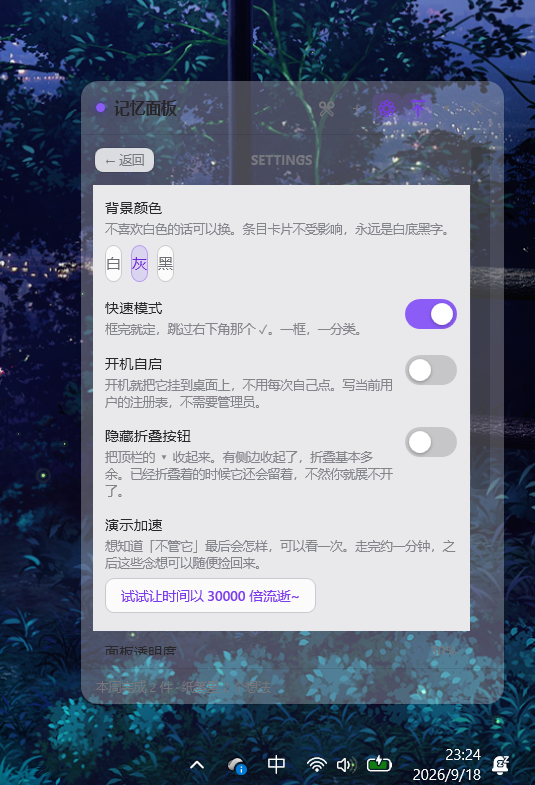
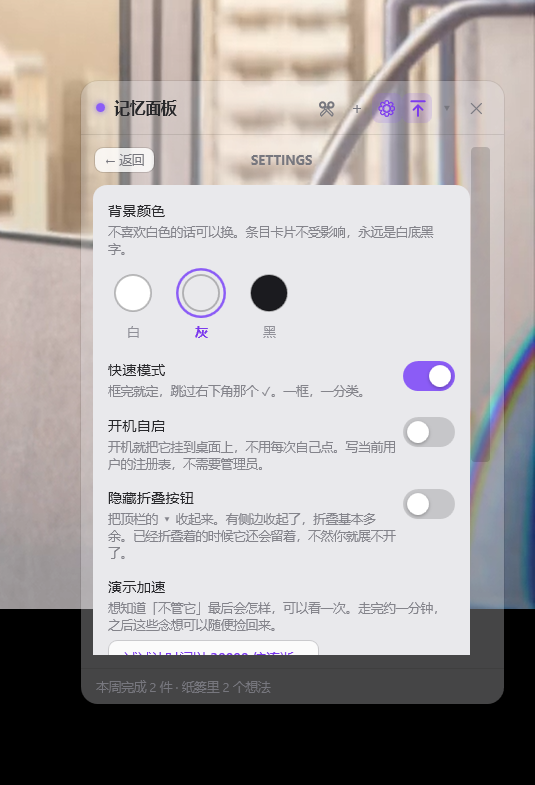
三处审美修改；顺手补上一个藏了很久的数据层对齐缺口
1. **背景颜色改成真色块**：原来是三个写着「白/灰/黑」的按钮 —— 选颜色却要读字。
   改成三个圆，直接显示那个主题的面板底色，选中的套紫圈、名字也变紫。
   顺带修了只有黑色主题才暴露的问题：**「黑」色块和它所在的深色背景同色，
   整个看不见**（只剩一个紫圈）。加了专门的描边资源 SwatchRing，
   三套主题各给足对比。

2. **设置页加圆角**：那块不透明底原来是直角。改成上面 11,11,0,0、
   下面 0,0,11,11 —— 中间「面板透明度」那行本来就透明，两块合起来还是一个大圆角。

3. **归类窗中间选项回归统一排版**：原来中间是三层（两三天 / 点了随机 48~72 小时 /
   [__] 天输入框），两侧只有两层，一眼就看得出不一样。改成：

       [ Today ]      [ Soon ]       [ Wantdo ]
         一天内      两三天 or block      无期限

   天数输入框挪到底部提示行右边（原来是「留空则用窗口标题」，那句本来就多余）。

4. **数据层对齐缺口（顺带发现）**：verify-snapshot 报了 items[21].overdue: JS=null CS=false。
   查下来是 store.js 那句的**短路行为**：

       overdue: it.room === 'todo' && isActive && it.dueAt && it.dueAt < now

   当 dueAt 是 null（手动记一笔、没有 DDL）时，整个表达式的值是 dueAt 本身（null），
   不是 false。我这边写的是严格布尔 dueAt is double && ...，输出 false。

   功能上等价（两边 UI 都当布尔用），但破坏了「逐字段可对比」这条不变量。
   以前没暴露是因为测试数据里每条 todo 都有 dueAt，这次 --flow=add 造了一条
   手动条目才撞上。按原样对齐（并写了注释说明这是刻意保留的怪癖，
   免得以后被人"顺手修好"又打破对齐）。

回归：22 条目 × 全部衰减字段逐字段完全一致 · legacy 单测 26 项全过 · 包 119.1 KB

diff --git a/native/src/PanelWindow.xaml b/native/src/PanelWindow.xaml
@@ -936,16 +936,18 @@
                                        HorizontalAlignment="Center" VerticalAlignment="Center"/>
                         </Grid>
 
-                        <Border Background="{DynamicResource SurfaceBg}" Padding="10,10,10,2">
+                        <Border Background="{DynamicResource SurfaceBg}" Padding="12,12,12,2"
+                                CornerRadius="11,11,0,0" Margin="0,0,0,0">
                         <StackPanel>
 
                         <!-- ==== 背景颜色 ==== -->
-                        <StackPanel Margin="0,0,0,12">
+                        <StackPanel Margin="0,0,0,14">
                             <TextBlock Text="背景颜色" FontSize="11.5" FontWeight="Medium"
                                        Foreground="{DynamicResource Tx2}"/>
                             <TextBlock Text="不喜欢白色的话可以换。条目卡片不受影响，永远是白底黑字。" FontSize="10"
-                                       Foreground="{DynamicResource HintTx}" Margin="0,4,0,6"
+                                       Foreground="{DynamicResource HintTx}" Margin="0,4,0,9"
                                        TextWrapping="Wrap" MaxWidth="300" HorizontalAlignment="Left"/>
+                            <!-- 直接给色块，比三个写着「白/灰/黑」的按钮直观得多 -->
                             <ItemsControl ItemsSource="{Binding ThemeOptions}">
                                 <ItemsControl.ItemsPanel>
                                     <ItemsPanelTemplate>
@@ -954,18 +956,34 @@
                                 </ItemsControl.ItemsPanel>
                                 <ItemsControl.ItemTemplate>
                                     <DataTemplate>
-                                        <Button Content="{Binding Name}" Command="{Binding PickCmd}"
-                                                CommandParameter="{Binding Key}" Margin="0,0,7,0">
-                                            <Button.Style>
-                                                <Style TargetType="Button" BasedOn="{StaticResource RoomBtn}">
-                                                    <Style.Triggers>
-                                                        <DataTrigger Binding="{Binding On}" Value="True">
-                                                            <Setter Property="Tag" Value="on"/>
-                                                        </DataTrigger>
-                                                    </Style.Triggers>
-                                                </Style>
-                                            </Button.Style>
-                                        </Button>
+                                        <StackPanel Margin="0,0,14,0" Cursor="Hand"
+                                                    MouseLeftButtonUp="OnThemeSwatchClick"
+                                                    ToolTip="{Binding Name}">
+                                            <Grid Width="40" Height="40">
+                                                <!-- 选中圈：外面一圈紫色；没选中时是透明的 -->
+                                                <Ellipse Width="40" Height="40" StrokeThickness="2"
+                                                         Stroke="{DynamicResource Accent}"
+                                                         Visibility="{Binding On, Converter={StaticResource BoolToVis}}"/>
+                                                <!-- 描边必须跟着主题走：不然黑色主题下
+                                                     「黑」色块和底色一样，整个看不见 -->
+                                                <Ellipse Width="30" Height="30" Fill="{Binding Swatch}"
+                                                         Stroke="{DynamicResource SwatchRing}" StrokeThickness="1.5"/>
+                                            </Grid>
+                                            <TextBlock Text="{Binding Name}" FontSize="10" Margin="0,5,0,0"
+                                                       HorizontalAlignment="Center">
+                                                <TextBlock.Style>
+                                                    <Style TargetType="TextBlock">
+                                                        <Setter Property="Foreground" Value="{DynamicResource Tx5}"/>
+                                                        <Style.Triggers>
+                                                            <DataTrigger Binding="{Binding On}" Value="True">
+                                                                <Setter Property="Foreground" Value="{DynamicResource AccentDeep}"/>
+                                                                <Setter Property="FontWeight" Value="SemiBold"/>
+                                                            </DataTrigger>
+                                                        </Style.Triggers>
+                                                    </Style>
+                                                </TextBlock.Style>
+                                            </TextBlock>
+                                        </StackPanel>
                                     </DataTemplate>
                                 </ItemsControl.ItemTemplate>
                             </ItemsControl>
@@ -1036,7 +1054,7 @@
                             这一行**故意不加不透明底** —— 用户拖这个滑块的时候，
                             要能直接看到面板当前有多透。
                         -->
-                        <StackPanel Margin="10,8,10,10">
+                        <StackPanel Margin="12,8,12,10">
                             <Grid Margin="0,0,0,5">
                                 <TextBlock Text="面板透明度" FontSize="11.5" FontWeight="Medium"
                                            Foreground="{DynamicResource Tx2}"/>
@@ -1049,7 +1067,8 @@
                                     ValueChanged="OnOpacityChanged"/>
                         </StackPanel>
 
-                        <Border Background="{DynamicResource SurfaceBg}" Padding="10,2,10,10">
+                        <Border Background="{DynamicResource SurfaceBg}" Padding="12,2,12,12"
+                                CornerRadius="0,0,11,11">
                         <StackPanel>
                         <StackPanel Margin="0,0,0,10">
                             <Grid Margin="0,0,0,5">

diff --git a/native/src/ChooserWindow.xaml b/native/src/ChooserWindow.xaml
@@ -110,23 +110,15 @@
                             <GradientStop Color="#2563eb" Offset="1"/>
                         </LinearGradientBrush>
                     </Button.Background>
+                    <!--
+                        和两侧保持同一套排版：大字 + 一行小字。
+                        天数输入框挪到底部提示行去了 —— 塞在按钮里会让中间这个
+                        长得和两边不一样，一眼就看出来。
+                    -->
                     <StackPanel>
-                        <TextBlock Text="两三天" FontSize="12.5" FontWeight="Bold" HorizontalAlignment="Center"/>
-                        <TextBlock Text="点了随机 48~72 小时" FontSize="8.5" Opacity="0.82"
+                        <TextBlock Text="Soon" FontSize="12.5" FontWeight="Bold" HorizontalAlignment="Center"/>
+                        <TextBlock Text="两三天 or block" FontSize="9" Opacity="0.82"
                                    HorizontalAlignment="Center"/>
-                        <!-- 想自己定期限就写个天数；留空就是上面那个随机的 -->
-                        <Border Background="#33ffffff" CornerRadius="6" Margin="0,5,0,0"
-                                HorizontalAlignment="Center" Padding="6,0,6,0">
-                            <StackPanel Orientation="Horizontal">
-                                <TextBox x:Name="DaysBox" Width="26" FontSize="11" FontWeight="SemiBold"
-                                         Background="Transparent" BorderThickness="0" Foreground="#ffffff"
-                                         CaretBrush="#ffffff" TextAlignment="Center"
-                                         VerticalContentAlignment="Center"
-                                         KeyDown="OnDaysKeyDown" PreviewTextInput="OnDaysInput"
-                                         ToolTip="写天数，比如 5；留空就随机"/>
-                                <TextBlock Text="天" FontSize="9.5" Opacity="0.85" VerticalAlignment="Center"/>
-                            </StackPanel>
-                        </Border>
                     </StackPanel>
                 </Button>
 
@@ -148,8 +140,21 @@
                 <TextBlock FontSize="9.5" Foreground="#b0b0b6" VerticalAlignment="Center">
                     <Run Text="Esc 算了 · 1 2 3 直接选"/>
                 </TextBlock>
-                <TextBlock Text="留空则用窗口标题" FontSize="9.5" Foreground="#b0b0b6"
-                           HorizontalAlignment="Right" VerticalAlignment="Center"/>
+                <StackPanel Orientation="Horizontal" HorizontalAlignment="Right" VerticalAlignment="Center">
+                    <TextBlock Text="想指定天数就写" FontSize="9.5" Foreground="#b0b0b6"
+                               VerticalAlignment="Center" Margin="0,0,5,0"/>
+                    <Border Background="#0f000000" CornerRadius="5" Padding="5,0,5,1">
+                        <StackPanel Orientation="Horizontal">
+                            <TextBox x:Name="DaysBox" Width="24" FontSize="10" FontWeight="SemiBold"
+                                     Background="Transparent" BorderThickness="0"
+                                     Foreground="#3a3a3c" CaretBrush="#3a3a3c" TextAlignment="Center"
+                                     VerticalContentAlignment="Center"
+                                     KeyDown="OnDaysKeyDown" PreviewTextInput="OnDaysInput"
+                                     ToolTip="留空就随机 48~72 小时"/>
+                            <TextBlock Text="天" FontSize="9.5" Foreground="#8a8a8e" VerticalAlignment="Center"/>
+                        </StackPanel>
+                    </Border>
+                </StackPanel>
             </Grid>
         </Grid>
     </Border>

diff --git a/native/src/Theme.xaml b/native/src/Theme.xaml
@@ -45,6 +45,8 @@
     <SolidColorBrush x:Key="EmptyBg" Color="#80ffffff"/>
     <SolidColorBrush x:Key="EmptyBorder" Color="#1f000000"/>
     <SolidColorBrush x:Key="HoverBg" Color="#14000000"/>
+    <!-- 色块描边：黑色主题下「黑」色块和底色一样，描边不给足就整个看不见 -->
+    <SolidColorBrush x:Key="SwatchRing" Color="#33000000"/>
     <SolidColorBrush x:Key="Accent" Color="#8b5cf6"/>
     <SolidColorBrush x:Key="AccentDeep" Color="#7c3aed"/>
     <SolidColorBrush x:Key="Green" Color="#10b981"/>

diff --git a/native/src/Palette.cs b/native/src/Palette.cs
@@ -33,6 +33,7 @@ namespace RemeberEr
             // 控件表面：不跟主题走的话，黑色主题下按钮会变成一块块白药丸
             public Color BtnBg, BtnBgHover, BtnBorder, InputBg;
             public Color TrackBg, ThumbBg, EmptyBg, EmptyBorder, HoverBg;
+            public Color SwatchRing;
         }
 
         static Color C(string hex)
@@ -53,6 +54,7 @@ namespace RemeberEr
                 BtnBg = C("#b8ffffff"), BtnBgHover = C("#ffffff"), BtnBorder = C("#1a000000"),
                 InputBg = C("#ffffff"), TrackBg = C("#21000000"), ThumbBg = C("#ffffff"),
                 EmptyBg = C("#80ffffff"), EmptyBorder = C("#1f000000"), HoverBg = C("#14000000"),
+                SwatchRing = C("#33000000"),
             },
             new Entry
             {
@@ -65,6 +67,7 @@ namespace RemeberEr
                 BtnBg = C("#ccffffff"), BtnBgHover = C("#ffffff"), BtnBorder = C("#22000000"),
                 InputBg = C("#f7f7f9"), TrackBg = C("#26000000"), ThumbBg = C("#ffffff"),
                 EmptyBg = C("#8cffffff"), EmptyBorder = C("#22000000"), HoverBg = C("#18000000"),
+                SwatchRing = C("#40000000"),
             },
             new Entry
             {
@@ -77,6 +80,7 @@ namespace RemeberEr
                 BtnBg = C("#1FFFFFFF"), BtnBgHover = C("#2EFFFFFF"), BtnBorder = C("#26FFFFFF"),
                 InputBg = C("#24242A"), TrackBg = C("#33FFFFFF"), ThumbBg = C("#E8E8EC"),
                 EmptyBg = C("#12FFFFFF"), EmptyBorder = C("#22FFFFFF"), HoverBg = C("#1AFFFFFF"),
+                SwatchRing = C("#70FFFFFF"),
             },
         };
 
@@ -112,6 +116,7 @@ namespace RemeberEr
             Set("InputBg", e.InputBg); Set("TrackBg", e.TrackBg); Set("ThumbBg", e.ThumbBg);
             Set("TabOnBg", e.BtnBgHover);
             Set("EmptyBg", e.EmptyBg); Set("EmptyBorder", e.EmptyBorder); Set("HoverBg", e.HoverBg);
+            Set("SwatchRing", e.SwatchRing);
         }
 
         static void Set(string resKey, Color c)

diff --git a/native/src/Store.cs b/native/src/Store.cs
@@ -532,7 +532,16 @@ namespace RemeberEr
                 outItem["daysLeft"] = isWant && isActive ? (object)Decay.DaysLeftFor(it, now, cfg, scale, demoStart) : null;
 
                 object dueAt = J.Get(it, "dueAt");
-                outItem["overdue"] = J.Str(it, "room", "") == "todo" && isActive && dueAt is double && (double)dueAt < now;
+                // 照抄 store.js 那句 `... && it.dueAt && it.dueAt < now` 的**短路行为**：
+                // 条件都成立但 dueAt 是假值（手动记一笔的条目 dueAt 就是 null）时，
+                // JS 那个表达式的值是 dueAt 本身，不是 false。
+                // 功能上等价（两边 UI 都当布尔用），但写成严格布尔就会让
+                // verify-snapshot 报「JS=null CS=false」—— 那条「逐字段可对比」的
+                // 不变量比这点洁癖值钱，所以刻意保留这个怪癖，别去"顺手修好"。
+                if (J.Str(it, "room", "") == "todo" && isActive)
+                    outItem["overdue"] = dueAt is double ? (object)((double)dueAt < now) : dueAt;
+                else
+                    outItem["overdue"] = false;
 
                 outItem["binMs"] = binMs;
                 outItem["binCount"] = J.Num(it, "binCount", 0);

diff --git a/native/src/ViewModels.cs b/native/src/ViewModels.cs
@@ -227,6 +227,8 @@ namespace RemeberEr
     {
         public string Key { get; set; }
         public string Name { get; set; }
+        /// <summary>色块本身要显示的颜色 —— 直接给色块比写「白/灰/黑」直观。</summary>
+        public Brush Swatch { get; set; }
         bool _on;
         public bool On { get { return _on; } set { Set(ref _on, value, "On"); } }
     }
@@ -320,7 +322,14 @@ namespace RemeberEr
 
             ThemeOptions = new ObservableCollection<ThemeOptionVm>();
             foreach (var e in Palette.All)
-                ThemeOptions.Add(new ThemeOptionVm { Key = e.Key, Name = e.Name, On = e.Key == _panelTheme });
+            {
+                var b = new SolidColorBrush(e.Panel);
+                b.Freeze();
+                ThemeOptions.Add(new ThemeOptionVm
+                {
+                    Key = e.Key, Name = e.Name, On = e.Key == _panelTheme, Swatch = b,
+                });
+            }
             SettingsCmd = new RelayCommand(() => { View = View == "set" ? "main" : "set"; OpacityPreview = null; });
             CollapseCmd = new RelayCommand(() => { if (CollapseRequested != null) CollapseRequested(); });
             ToggleTopmostCmd = new RelayCommand(ToggleTopmost);

diff --git a/native/src/PanelWindow.xaml.cs b/native/src/PanelWindow.xaml.cs
@@ -1350,6 +1350,14 @@ namespace RemeberEr
             _vm.AddManualCmd.Execute(null);
         }
 
+        /// <summary>点色块换背景色。色块是 StackPanel 不是 Button（Button 的模板会套个框，很丑）。</summary>
+        void OnThemeSwatchClick(object sender, MouseButtonEventArgs e)
+        {
+            var fe = sender as FrameworkElement;
+            var opt = fe == null ? null : fe.DataContext as ThemeOptionVm;
+            if (opt != null) _vm.PanelTheme = opt.Key;
+        }
+
         // ------------------------------------------------------------ 设置页滑块
 
         void OnOpacityChanged(object sender, RoutedPropertyChangedEventArgs<double> e)

diff --git a/CHANGELOG.md b/CHANGELOG.md
@@ -301,6 +301,37 @@ StaticResource 解析出来是**同一个画笔实例**，直接改它的 `Color
 截图确认：三种主题下设置页都清晰可读，顶栏和透明度那一行仍然半透明
 （能看见壁纸透过来）；主视图里**卡片始终是白底黑字**。
 
+### 11. 三处审美修改 · 自己
+
+> 「换颜色的那几个选项看着很不美观」
+> 「设置的背景换成和软件一样的圆角」
+> 「截图后选择的中间选项风格和两侧不一致」
+
+**A · 色块改成真色块。** 原来「背景颜色」是三个写着「白 / 灰 / 黑」的按钮 ——
+选颜色却要读字，很别扭。改成**三个圆**：直接显示那个主题的面板底色，
+选中的套一圈紫色描边、名字也变紫。三套主题的底色一眼就分得出来。
+
+顺带修了一个只有黑色主题才暴露的问题：**「黑」色块和它所在的深色背景同色，
+整个看不见**（只剩一个紫圈）。给色块加了专门的描边资源 `SwatchRing`，
+三套主题各给足对比（白 `#33`、灰 `#40`、黑 `#70` 白度）。
+
+**B · 设置页加圆角。** 那块不透明底原来是直角，和整个软件的圆角不搭。
+改成上面那块 `CornerRadius="11,11,0,0"`、下面那块 `0,0,11,11` ——
+中间「面板透明度」那一行本来就是透明的，上下两块合起来还是一个大圆角。
+
+**C · 归类窗中间那个选项回归统一排版。**
+原来中间是「两三天 / 点了随机 48~72 小时 / [__] 天输入框」三层，
+两侧只有「大字 + 一行小字」两层，一眼就看得出不一样。
+
+改成：
+```
+[ Today ]        [ Soon ]         [ Wantdo ]
+  一天内        两三天 or block       无期限
+```
+天数输入框挪到底部提示行 —— 右边原来是「留空则用窗口标题」，
+现在换成「想指定天数就写 [__] 天」（标题那条提示本来就多余，
+输入框里都写着呢）。
+
 ---
 
 ## v0.9.0
